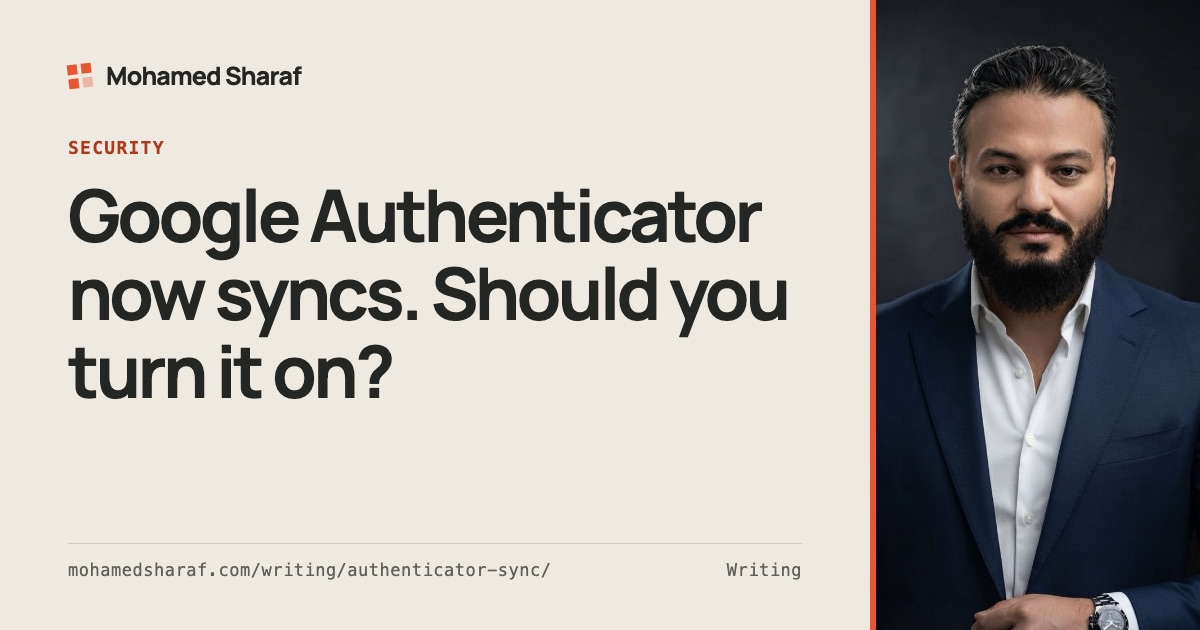
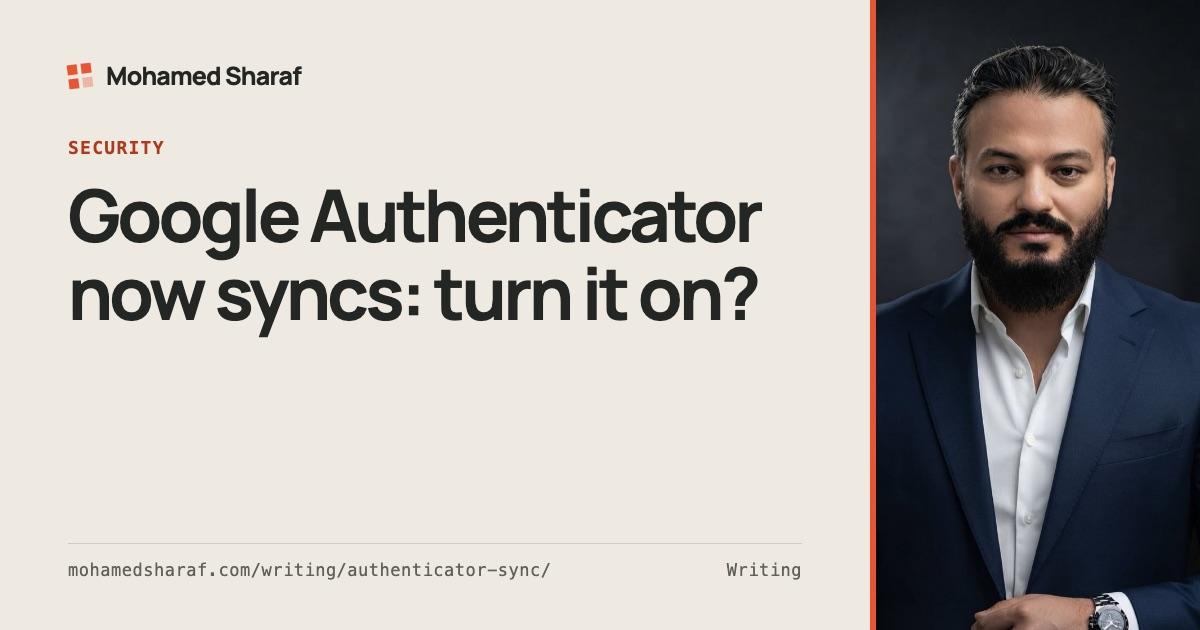
Shorten two 2023 article titles for search results

Changed region(s): [[0.3392, 0.4222, 0.6783, 0.5429], [0.0617, 0.5429, 0.3392, 0.6333]]

diff --git a/writing/authenticator-sync.en.html b/writing/authenticator-sync.en.html
@@ -1,6 +1,6 @@
 <!--
 {"slug": "authenticator-sync", "lang": "en", "pair": "authenticator-sync", "status": "published",
- "title": "Google Authenticator now syncs. Should you turn it on?",
+ "title": "Google Authenticator now syncs: turn it on?",
  "description": "Losing your phone no longer means losing your 2FA codes. But your Google account now holds them.",
  "date": "2023-04-25", "topic": "Security"}
 -->

diff --git a/writing/bank-detail-scams.en.html b/writing/bank-detail-scams.en.html
@@ -1,6 +1,6 @@
 <!--
 {"slug": "bank-detail-scams", "lang": "en", "pair": "bank-detail-scams", "status": "published",
- "title": "After SVB: beware “our bank details changed”",
+ "title": "After SVB: beware of “new bank details”",
  "description": "Bank news creates the perfect cover for invoice fraud. One rule stops it.",
  "date": "2023-03-14", "topic": "Security"}
 -->
